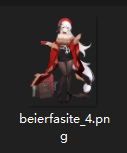
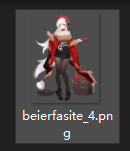
fix:修正加解密没有进行水平翻转导致加解密图像出现水平镜像的问题

diff --git a/0x0a-碧蓝航线-静态立绘解密加密工具/blhx_img_tool.py b/0x0a-碧蓝航线-静态立绘解密加密工具/blhx_img_tool.py
@@ -165,6 +165,7 @@ class encrypt_img:
 
         # 水平垂直翻转
         img = Tool.rotate(img, -1)
+        img = Tool.rotate(img,1)
 
         # 第一个vt坐标的序列
         vt_index = 0
@@ -267,7 +268,7 @@ class decrypt_img:
         height,weight = img.shape[0],img.shape[1]
 
         # 垂直翻转
-        img = cv2.flip(img, 0)
+        img = Tool.rotate(img,0)
 
         for i in range(1, len(mesh_data)):
             if mesh_data[i][0] != 'v':
@@ -313,6 +314,7 @@ class decrypt_img:
 
         # 水平垂直翻转
         Base_img = Tool.rotate(Base_img,-1)
+        Base_img = Tool.rotate(Base_img,1)
         Tool.save_png(final_png, Base_img)
         logger.info(f"处理完成: <{pic}> 路径: {final_png}")
 

diff --git a/0x0a-碧蓝航线-静态立绘解密加密工具/Readme.md b/0x0a-碧蓝航线-静态立绘解密加密工具/Readme.md
@@ -1,4 +1,4 @@
-## 碧蓝航线静态立绘解密&加密工具 v1.1
+## 碧蓝航线静态立绘解密&加密工具 v1.1.1
 
 ---
 
